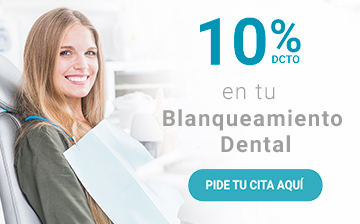
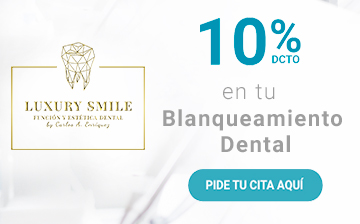
Update karo

diff --git a/src/shared/Navbar/NavBar.tsx b/src/shared/Navbar/NavBar.tsx
@@ -124,7 +124,7 @@ function NavBar(props:Props) {
 
                     <ul className={`header flex-row items-center ${isMobile ? 'dn': 'flex'}`}>
                         <li><NavLink className={`${classes.headerLink} ${isFixed ? classes.headerLinkFixed:''} ttu ph2 ${isMobile ? 'dn': 'dib'}`} to="/">Inicio</NavLink></li>
-                        <li><NavLink className={`${classes.headerLink} ${isFixed ? classes.headerLinkFixed:''} ttu ph2 ${isMobile ? 'dn': 'dib'}`} to="/Consultory">Consultorio</NavLink></li>
+                        <li><NavLink className={`${classes.headerLink} ${isFixed ? classes.headerLinkFixed:''} ttu ph2 ${isMobile ? 'dn': 'dib'}`} to="/Consultory">Nosotros</NavLink></li>
                         <li><NavLink className={`${classes.headerLink} ${isFixed ? classes.headerLinkFixed:''} ttu ph2 ${isMobile ? 'dn': 'dib'}`} to="/Treatments">Servicios</NavLink></li>
                         <li><NavLink className={`${classes.headerLink} ${isFixed ? classes.headerLinkFixed:''} ttu ph2 ${isMobile ? 'dn': 'dib'}`} to="/Especialists">Especialistas</NavLink></li>
                         <li><NavLink className={`${classes.headerLink} ${isFixed ? classes.headerLinkFixed:''} ttu ph2 ${isMobile ? 'dn': 'dib'}`} to="/Testimonies">Testimonios</NavLink></li>
@@ -133,7 +133,7 @@ function NavBar(props:Props) {
                     </ul>
                     <ul className={`mt0 pa4 header flex-column absolute w-100 items-center mobile-menu ${showMenu ? 'flex grow-menu' : 'dn'} ${isFixed ?'fixed-mobile ':''}`}>
                         <li className={`w-100 pa2 tl ${classes.listItemMenu}`}><NavLink className={`${classes.menuLink} ${classes.listItemMenuMobile}`} to="/" onClick={()=>setshowMenu(false)}>Inicio</NavLink></li>
-                        <li className={`w-100 pa2 tl ${classes.listItemMenu}`}><NavLink className={`${classes.menuLink} ${classes.listItemMenuMobile}`} to="/Consultory" onClick={()=>setshowMenu(false)}>Consultorio</NavLink></li>
+                        <li className={`w-100 pa2 tl ${classes.listItemMenu}`}><NavLink className={`${classes.menuLink} ${classes.listItemMenuMobile}`} to="/Consultory" onClick={()=>setshowMenu(false)}>Nosotros</NavLink></li>
                         <li className={`w-100 pa2 tl ${classes.listItemMenu}`}><NavLink className={`${classes.menuLink} ${classes.listItemMenuMobile}`} to="/Treatments" onClick={()=>setshowMenu(false)}>Servicios</NavLink></li>
                         <li className={`w-100 pa2 tl ${classes.listItemMenu}`}><NavLink className={`${classes.menuLink} ${classes.listItemMenuMobile}`} to="/Especialists" onClick={()=>setshowMenu(false)}>Especialistas</NavLink></li>
                         <li className={`w-100 pa2 tl ${classes.listItemMenu}`}><NavLink className={`${classes.menuLink} ${classes.listItemMenuMobile}`} to="/Testimonies" onClick={()=>setshowMenu(false)}>Testimonios</NavLink></li>

diff --git a/src/components/Home/HomeComponents/Contact.tsx b/src/components/Home/HomeComponents/Contact.tsx
@@ -46,14 +46,15 @@ const Contact = (props:Props) => {
                     <div className="flex w-100 flex-column justify-around">
                         <div className="ContactInfo  blue-container flex flex-row items-start pa3">
                             <div className="w-60 custom-border flex flex-column justify-center ofix-contact-info">
-                                <p className="b ofix-building">Edificio Ofix 33</p>
-                                <p className="fw4">piso 7 - consultorio 715</p>
-                                <p>Carrera 80a #32 EE - 72 - Medellín - Colombia</p>
+                                <p className="b ofix-building">Carrera 80a #32 EE - 72</p>
+                                <p>Edificio OFIX 33 PISO 7 CONSULTORIO 715</p>
+                                <p className="fw4">Medellín - Colombia</p>
                             </div>
                             <div className="w-40 pl4 ofix-photo">
                                 <p className="b">Horario de atención</p> 
                                 <p>Lunes a viernes: 8am - 6pm</p>
-                                <p> Sábados: 8am - 12pm</p>
+                                <p>Sábados: 9am - 1pm</p>
+                                <p>Domingo: Casos especiales</p>
                             </div>
                         </div>
                         <div className="MapOfix">
@@ -70,14 +71,15 @@ const Contact = (props:Props) => {
             <div className="w-80 flex flex-row center contact-mobile">
                     <div className="w-100 flex flex-column blue-container ph4 pv3 ofix-contact-info mv3">
                         <div className="custom-border flex flex-column justify-center">
-                            <p className="b ofix-building">Edificio Ofix 33</p>
-                            <p>piso 7 - consultorio 715</p>
-                            <p>Carrera 80a #32 EE - 72 - Medellín - Colombia</p>
+                            <p className="b ofix-building">Carrera 80a #32 EE - 72</p>
+                            <p>Edificio OFIX 33 PISO 7 CONSULTORIO 715</p>
+                            <p className="fw4">Medellín - Colombia</p>
                         </div>
                         <div className="pl4 ">
                             <p className="b">Horario de atención</p> 
                             <p>Lunes a viernes: 8am - 6pm</p>
-                            <p> Sábados: 8am - 12pm</p>
+                            <p>Sábados: 9am - 1pm</p>
+                            <p>Domingo: Casos especiales</p>
                         </div>
                     
 

diff --git a/src/components/Consultory/Consultory.tsx b/src/components/Consultory/Consultory.tsx
@@ -10,16 +10,16 @@ import './Consultory.css'
 const Consultory = () => {
     return(
         <div className="w-90 center consultory-mobile">
-            <h4 className="consultory-main-title">Consultorio</h4>
+            <h4 className="consultory-main-title">Nosotros</h4>
             <div className="w-100 flex flex-row consultory-container">
                 <div className="w-50 image-consultory">
                     <img src={Imageconsultory} alt="Image consultory"/>
                 </div>
                 <div className="w-50 flex flex-column items-start">
                     <h6 className="consultory-subtitle">Luxury Smile</h6>
-                    <p className="consultory-subtitle-paragraph">Fundación y estética dental</p>
+                    <p className="consultory-subtitle-paragraph">Función y estética dental</p>
                     <DocCarlos/>
-                    <p className="consultory-subtitle-description">Somos un consultorio ubicados en la ciudad de medellin,  con excelentes especialistas preparados en las principales universidades del pais, contamos con habilitacion en las diferentes areas de la odontologia, rehabilitacion oral, periodoncia, endodoncia, cirugia oral, todo en el mismo lugar.</p>
+                    <p className="consultory-subtitle-description">Somos un consultorio ubicados en la ciudad de Medellin,  con excelentes especialistas preparados en las principales universidades del pais, contamos con habilitacion en las diferentes areas de la odontologia, rehabilitacion oral, periodoncia, endodoncia, cirugia oral, todo en el mismo lugar.</p>
 
                     <p  className="consultory-third-subtitle">¿Por qué elegirnos?</p>
                     <div className="consultory-advantage-container w-60">

diff --git a/src/shared/Footer/Footer.tsx b/src/shared/Footer/Footer.tsx
@@ -11,21 +11,23 @@ const Footer = () => {
                     <h6 className="b">Horario de atención</h6>
                     <div className="flex flex-column">
                         <p>Lunes a viernes: 8am - 6pm</p>
-                        <p>Sábados: 8am - 12pm</p>
-                        <p>Domingo: cerrado</p>
+                        <p>Sábados: 9am - 1pm</p>
+                        <p>Domingo: Casos especiales</p>
                     </div>
                 </div>
                 <div className="footer-item w-50 tl">
                     <h6 className="b tl">Contáctanos</h6>
                     <div className="w-100 flex contact-footer">
                         <div className="pr3 flex flex-column">
-                            <p>Edificio Ofix 33 piso 7 consultorio 715</p>
-                            <p>Carrera 80a #32 EE - 72. Medellín - Colombia</p>
+                            <p>Carrera 80a #32 EE - 72</p>
+                            <p>Edificio OFIX 33 PISO 7 CONSULTORIO 715</p>
+                            <p>Medellín - Colombia</p>
                             <p>luxurysmilecolombia@gmail.com</p>
                         </div>
                         <div className="pl3 flex flex-column">
-                            <p>Teléfono: 557 84 16</p>
-                            <p>WhatsApp: 301 371 90 26</p>
+                            <p>Teléfono:  557 84 16</p>
+                            <p>Para llamadas y Whatsapp: 301 371 9026 / 350 873 6090
+</p>
                         </div>
                     </div>
                 </div>

diff --git a/src/components/Consultory/ConsultoryExperience.tsx b/src/components/Consultory/ConsultoryExperience.tsx
@@ -1,6 +1,6 @@
 import React from 'react'
 import { ExperienceList } from '../Home/HomeComponents/ExperienceList'
-import Chip from '@material-ui/core/Chip';
+// import Chip from '@material-ui/core/Chip';
 import './ConsultoryExperience.css'
 import { createStyles, makeStyles } from '@material-ui/core/styles';
 
@@ -36,7 +36,8 @@ const ConsultoryExperience = (props:Props) => {
                             <img src={item.imgPath} alt={item.name}/>
                         </div>
                         <h6 className="pt3 white experience-title mv2">{item.name}</h6>
-                        <p className="b white experience-type">Paciente <Chip className={classes.root} label={item.treatmentType} /></p>
+                        {/* <p className="b white experience-type">Paciente <Chip className={classes.root} label={item.treatmentType} /></p> */}
+                        <p className="b white experience-type">Paciente</p>
                         <div className="w-100 flex justify-center pb3">
                             <p className="white experience-description w-60">{item.description}</p>
                         </div>

diff --git a/src/components/Home/HomeComponents/ExperienceCarousel.tsx b/src/components/Home/HomeComponents/ExperienceCarousel.tsx
@@ -1,6 +1,6 @@
 import React, { useState, useEffect } from 'react';
 import { ExperienceList } from './ExperienceList'
-import Chip from '@material-ui/core/Chip';
+// import Chip from '@material-ui/core/Chip';
 import { createStyles, makeStyles } from '@material-ui/core/styles';
 import AliceCarousel from 'react-alice-carousel';
 
@@ -25,7 +25,8 @@ const ExperienceCarousel = () => {
                     <img src={item.imgPath} alt={item.name}/>
                 </div>
                 <h6 className="pt3 white experience-title mv2">{item.name}</h6>
-                <p className="b white experience-type">Paciente <Chip className={classes.root} label={item.treatmentType} /></p>
+                <p className="b white experience-type">Paciente </p>
+                {/* <p className="b white experience-type">Paciente <Chip className={classes.root} label={item.treatmentType} /></p> */}
                 <div className="w-100 flex justify-center pb3">
                     <p className="white experience-description w-60">{item.description}</p>
                 </div>

diff --git a/src/components/Home/HomeComponents/TreatmentsList.tsx b/src/components/Home/HomeComponents/TreatmentsList.tsx
@@ -4,7 +4,7 @@ const TreatmentsList:TreatmentModel[] = [
     {
         title: 'Rehabilitación Oral',
         imagePath: require('../../images/rehabilitacion-oral.jpg'),
-        description: 'Es una especialidad dentro de la odontología que combina en forma integral las áreas de prótesis fija, prótesis removible, operatoria, oclusión e Implante dental, que realiza el diagnóstico y plan de tratamiento adecuado al paciente de alta complejidad que requiere recuperar su salud bucal y estetica, a través de las técnicas más modernas de rehabilitación.',
+        description: 'Es una especialidad dentro de la odontología que combina en forma integral las áreas de prótesis fija, prótesis removible, operatoria, oclusión e Implantes dentales, que realiza el diagnóstico y plan de tratamiento adecuado al paciente de alta complejidad que requiere recuperar su salud bucal y estetica, a través de las técnicas más modernas de rehabilitación.',
     },
     {
         title: 'Estética dental',

diff --git a/src/components/Home/HomeComponents/Carousel.tsx b/src/components/Home/HomeComponents/Carousel.tsx
@@ -24,11 +24,13 @@ const Slider:React.FC = () => {
         <div className="w-100 main-carousel">
             
             <AliceCarousel mouseDragEnabled
-                    buttonsDisabled={showArrows}
-                    dotsDisabled={false}
-                    items={galleryItems}
-                    stagePadding={{ paddingLeft: 0, paddingRight: 0 }}
-                />
+                autoPlay={true}
+                autoPlayInterval={5000}
+                buttonsDisabled={showArrows}
+                dotsDisabled={false}
+                items={galleryItems}
+                stagePadding={{ paddingLeft: 0, paddingRight: 0 }}
+            />
             {/* <AwesomeSlider className="aws-btn">
                 <div data-src={isMobile ? FirstSlideMobile: FirstSlide} />
                 <div data-src={isMobile ? SecondSlideMobile:SecondSlide} />

diff --git a/src/App.tsx b/src/App.tsx
@@ -38,7 +38,7 @@ const App: React.FC = () => {
       <HashRouter>
         <div className="App relative">
           <div className="fixed whatsapp-fixed">
-              <a href="https://wa.me/573013719026" target="_blank">
+              <a href="https://wa.me/573508736090" target="_blank">
                 <img src={WhatAppGreen} alt=""/>
               </a>
           </div>

diff --git a/src/components/Appointment/Appointment.css b/src/components/Appointment/Appointment.css
@@ -20,7 +20,7 @@
 }
 @media (min-width: 1300px){
     .promotion-image{
-        background-size: cover; 
+        background-size: contain; 
     }
 }
 @media (max-width: 960px) {
